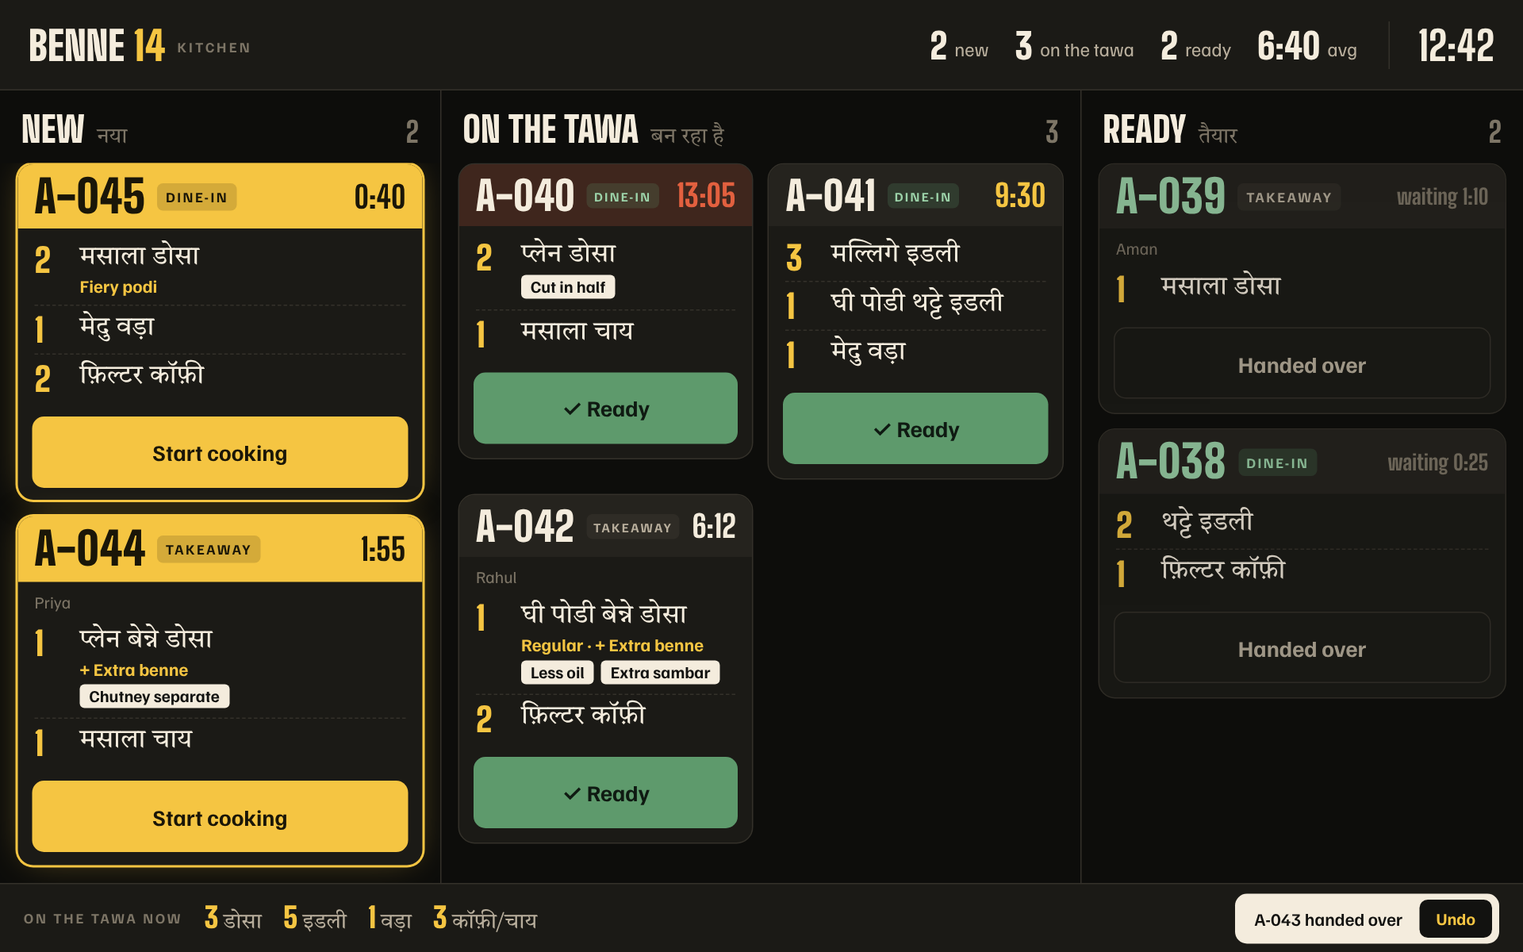
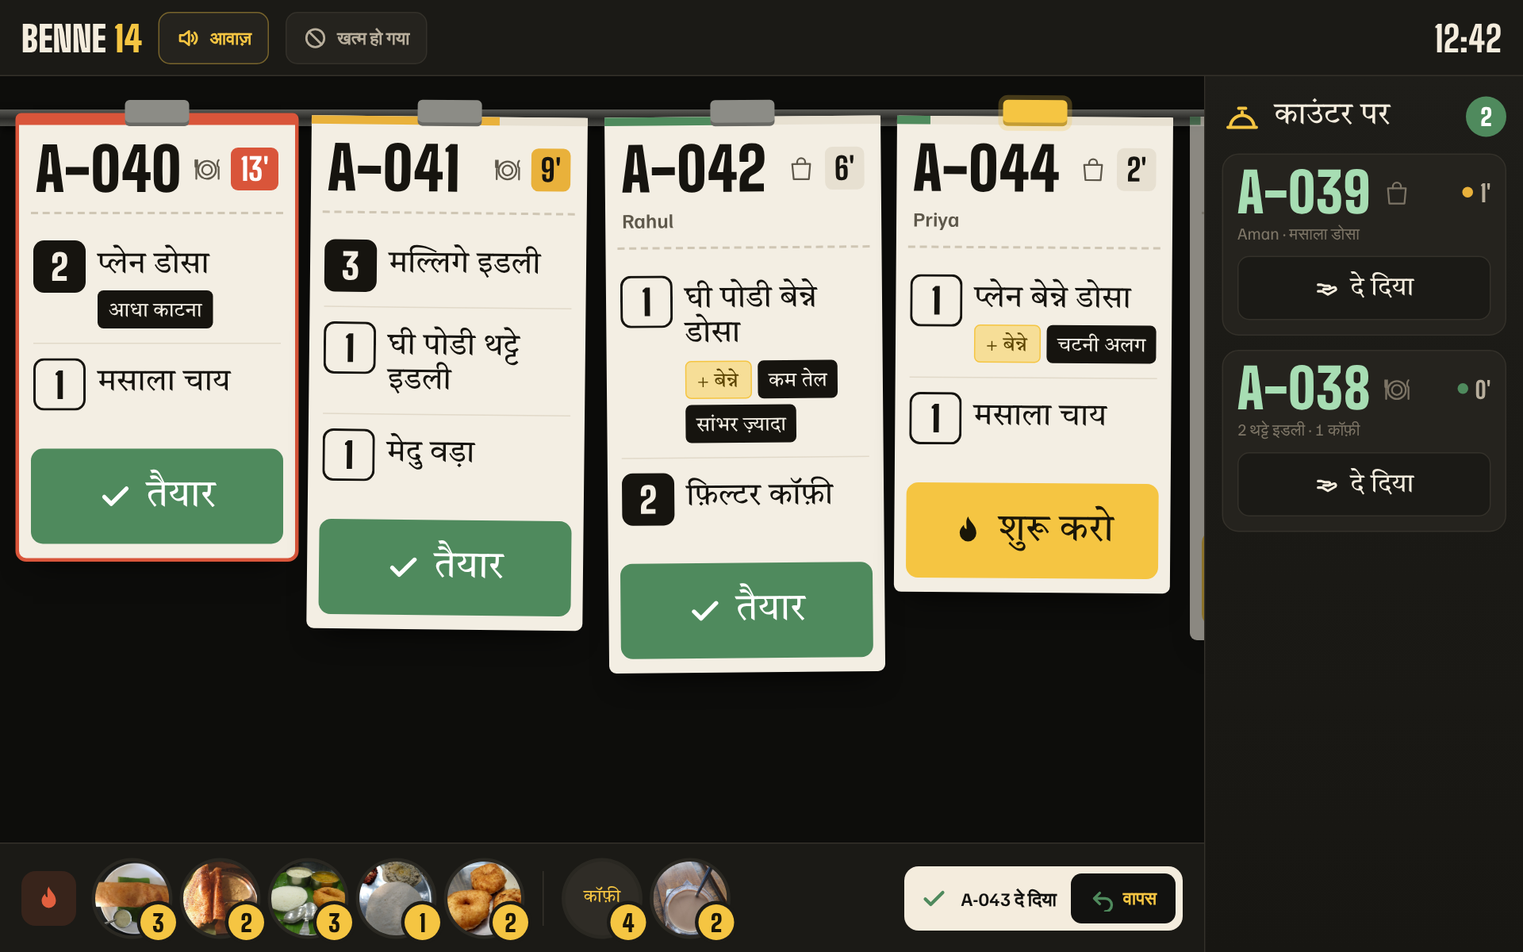
Redesign kitchen display as a ticket rail
Orders are paper chits on a rail with an age bar and timer badge, the
ready orders sit on a counter shelf, and what is on the tawa is a tray
of dish photos with counts instead of a text footer. Buttons and notes
use short Hindi kitchen words.

Claude-Session: https://claude.ai/code/session_01Dbfu4PDT3Rbs4kfZJUwCve

diff --git a/prototype/kitchen.html b/prototype/kitchen.html
@@ -6,156 +6,195 @@
 <title>Benne 14 — Kitchen</title>
 <link rel="stylesheet" href="theme.css">
 <style>
-  .screen{width:1280px;height:800px;display:flex;flex-direction:column;background:#0D0D0B}
-  .top{height:76px;display:flex;align-items:center;gap:26px;padding:0 24px;border-bottom:1px solid var(--line);background:var(--s1)}
-  .top .logo{font-family:var(--display);font-weight:900;font-size:34px;text-transform:uppercase;line-height:1}
-  .top .logo i{font-style:normal;color:var(--benne)}
-  .top .logo small{font-family:var(--body);font-size:12px;font-weight:700;letter-spacing:.18em;color:var(--cream-3);margin-left:10px;vertical-align:middle}
-  .counts{display:flex;gap:22px;margin-left:auto;font-size:16px;color:var(--cream-2)}
-  .counts b{font-family:var(--display);font-weight:900;font-size:30px;color:var(--cream);margin-right:6px;vertical-align:-3px}
-  .clock{font-family:var(--display);font-weight:800;font-size:34px;padding-left:24px;border-left:1px solid var(--line)}
+  :root{--paper:#F3EEE3;--paper-2:#E7E0D1;--ink:#16140F;--ink-2:#5E584B;--ok:#4F8A5D;--warn:#E9B13B;--late:#D9553A}
+  .screen{width:1280px;height:800px;display:grid;grid-template-columns:1fr 268px;grid-template-rows:64px 1fr 92px;background:#0D0D0B}
 
-  .board{flex:1;display:grid;grid-template-columns:1fr 1.45fr 1fr;gap:0;overflow:hidden}
-  .col{border-right:1px solid var(--line);display:flex;flex-direction:column;overflow:hidden}
-  .col:last-child{border-right:0}
-  .ch{display:flex;align-items:baseline;gap:10px;padding:14px 18px 10px}
-  .ch h2{font-family:var(--display);font-weight:900;font-size:30px;text-transform:uppercase;letter-spacing:.01em}
-  .ch .hi{font-size:18px;color:var(--cream-3)}
-  .ch .n{margin-left:auto;font-family:var(--display);font-weight:800;font-size:24px;color:var(--cream-3)}
-  .stack{padding:0 14px 14px;display:flex;flex-direction:column;gap:12px;overflow:hidden}
-  .tawa .stack{display:grid;grid-template-columns:1fr 1fr;align-items:start}
+  /* top bar */
+  .top{grid-column:1/3;display:flex;align-items:center;gap:14px;padding:0 18px;background:var(--s1);border-bottom:1px solid var(--line)}
+  .logo{font-family:var(--display);font-weight:900;font-size:30px;text-transform:uppercase}
+  .logo i{font-style:normal;color:var(--benne)}
+  .ibtn{height:44px;display:flex;align-items:center;gap:8px;padding:0 14px;border-radius:10px;border:1px solid var(--line);background:var(--s2);color:var(--cream-2);font-size:15px;font-weight:600}
+  .ibtn svg{width:20px;height:20px}
+  .ibtn.on{color:var(--benne);border-color:rgba(245,197,66,.4)}
+  .clock{margin-left:auto;font-family:var(--display);font-weight:800;font-size:30px}
 
-  .tk{background:var(--s1);border-radius:14px;overflow:hidden;border:1px solid var(--line)}
-  .tk .h{display:flex;align-items:center;gap:10px;padding:10px 14px;background:var(--s2)}
-  .tk .tok{font-family:var(--display);font-weight:900;font-size:38px;line-height:.9;white-space:nowrap}
-  .tawa .tk .tok{font-size:34px}
-  .tk .type,.tk .t{white-space:nowrap}
-  .tawa .tk .type{font-size:11px;padding:4px 6px}
-  .tk .type{font-size:12px;font-weight:700;letter-spacing:.14em;text-transform:uppercase;padding:4px 7px;border-radius:5px;background:var(--s3);color:var(--cream-2)}
-  .tk .type.dine{background:rgba(94,154,108,.2);color:#9CD3A9}
-  .tk .t{margin-left:auto;font-family:var(--display);font-weight:800;font-size:26px}
-  .tk .who{padding:8px 14px 0;font-size:14px;color:var(--cream-3)}
-  .tk ul{list-style:none;padding:6px 14px 4px}
-  .tk li{display:grid;grid-template-columns:38px 1fr;padding:6px 0;border-bottom:1px dashed var(--line)}
-  .tk li:last-child{border-bottom:0}
-  .tk .q{font-family:var(--display);font-weight:900;font-size:28px;line-height:1;color:var(--benne)}
-  .tk .it{font-family:var(--hi);font-size:22px;line-height:1.15}
-  .tk .en{display:block;font-family:var(--body);font-size:12px;color:var(--cream-3);letter-spacing:.02em}
-  .tk .mod{display:block;font-family:var(--body);font-size:15px;font-weight:700;color:var(--benne);margin-top:3px}
-  .tk .note{display:inline-block;font-family:var(--body);font-size:14px;font-weight:700;background:var(--cream);color:var(--bg);padding:2px 8px;border-radius:4px;margin:4px 6px 0 0}
-  .tk .act{margin:8px 12px 12px;height:60px;border-radius:10px;border:0;width:calc(100% - 24px);font-size:19px;font-weight:700;display:flex;align-items:center;justify-content:center;gap:10px}
+  /* the rail */
+  .railwrap{position:relative;overflow:hidden;padding:0 0 0 16px}
+  .rail{position:absolute;left:0;right:0;top:28px;height:14px;background:linear-gradient(180deg,#5A5A55,#2A2A27 55%,#4A4A45);box-shadow:0 3px 8px rgba(0,0,0,.6)}
+  .chits{position:relative;display:flex;gap:14px;align-items:flex-start;padding-top:34px}
+  .chit{flex:0 0 232px;background:var(--paper);color:var(--ink);border-radius:2px 2px 6px 6px;position:relative;box-shadow:0 14px 24px -12px rgba(0,0,0,.8);transform-origin:top center}
+  .chit:nth-child(2){transform:rotate(.6deg)}.chit:nth-child(3){transform:rotate(-.5deg)}.chit:nth-child(4){transform:rotate(.4deg)}
+  .clip{position:absolute;top:-14px;left:50%;width:54px;height:22px;margin-left:-27px;border-radius:4px;background:#8C8C86;box-shadow:inset 0 -3px 0 rgba(0,0,0,.25)}
+  .age{height:7px;background:var(--paper-2)}
+  .age i{display:block;height:100%}
+  .ch-h{display:flex;align-items:center;gap:8px;padding:16px 14px 10px}
+  .ch-h .tok{font-family:var(--display);font-weight:900;font-size:50px;line-height:.85;white-space:nowrap}
+  .ch-h svg{width:24px;height:24px;margin-left:auto;color:var(--ink-2);flex-shrink:0}
+  .ch-h .min{font-family:var(--display);font-weight:800;font-size:26px;padding:2px 8px;border-radius:6px;background:var(--paper-2)}
+  .who{padding:0 14px 8px;font-size:17px;font-weight:600;color:var(--ink-2);display:flex;align-items:center;gap:6px}
+  .perf{height:0;border-top:2px dashed #CFC6B4;margin:4px 10px}
+  .items{padding:6px 12px 8px}
+  .ln{display:grid;grid-template-columns:44px 1fr;gap:10px;padding:12px 0;align-items:start}
+  .ln + .ln{border-top:1px solid #E1D9C9}
+  .qty{width:44px;height:44px;border-radius:9px;background:var(--ink);color:var(--paper);display:grid;place-items:center;font-family:var(--display);font-weight:900;font-size:30px}
+  .qty.one{background:transparent;color:var(--ink);box-shadow:inset 0 0 0 2px var(--ink)}
+  .nm{font-family:var(--hi);font-size:26px;line-height:1.15;padding-top:6px}
+  .tags{display:flex;flex-wrap:wrap;gap:5px;margin-top:7px;align-items:flex-start}
+  .tg{font-family:var(--hi);font-size:17px;line-height:1;height:32px;display:inline-flex;align-items:center;padding:2px 9px 0;border-radius:5px;white-space:nowrap}
+  .tg.add{background:#F6DE97;color:#5A4300}
+  .tg.hot{background:#F3C3B6;color:#7A2410}
+  .tg.note{background:var(--ink);color:var(--paper)}
+  .go{margin:12px 10px 12px;height:80px;width:calc(100% - 20px);border:0;border-radius:10px;font-family:var(--hi);font-size:32px;display:flex;align-items:center;justify-content:center;gap:12px}
+  .go svg{width:28px;height:28px}
 
-  .new .tk{border-color:var(--benne);box-shadow:0 0 0 1px var(--benne),0 0 30px -10px rgba(245,197,66,.5)}
-  .new .tk .h{background:var(--benne);color:var(--benne-ink)}
-  .new .tk .h .type{background:rgba(26,22,8,.15);color:var(--benne-ink)}
-  .new .act{background:var(--benne);color:var(--benne-ink)}
-  .tawa .act{background:var(--leaf);color:#0F1A12}
-  .ready .act{background:transparent;color:var(--cream-2);border:1.5px solid var(--line)!important}
-  .ready .tk{opacity:.85}
-  .ready .tk .tok{color:#9CD3A9}
+  .chit.new .clip{background:var(--benne);box-shadow:0 0 0 4px rgba(245,197,66,.25),inset 0 -3px 0 rgba(0,0,0,.2)}
+  .chit.new .go{background:var(--benne);color:var(--benne-ink)}
+  .chit.cook .go{background:var(--ok);color:#fff}
+  .chit.warn .ch-h .min{background:var(--warn);color:var(--ink)}
+  .chit.late .ch-h .min{background:var(--late);color:#fff}
+  .chit.late{box-shadow:0 0 0 3px var(--late),0 14px 24px -12px rgba(0,0,0,.8)}
+  .chit.peek{opacity:.55}
 
-  .late .h{background:rgba(226,96,63,.18)!important}
-  .late .t{color:var(--chilli)}
-  .warn .t{color:var(--benne)}
+  /* the pass */
+  .pass{grid-row:2/4;grid-column:2;background:linear-gradient(180deg,#1E1D19,#171612);border-left:1px solid var(--line);display:flex;flex-direction:column;padding:16px 14px}
+  .pass-h{display:flex;align-items:center;gap:10px;margin-bottom:14px}
+  .pass-h svg{width:34px;height:34px;color:var(--benne)}
+  .pass-h b{font-family:var(--hi);font-size:26px;font-weight:400}
+  .pass-h span{margin-left:auto;width:34px;height:34px;border-radius:50%;background:var(--ok);color:#fff;display:grid;place-items:center;font-family:var(--display);font-weight:900;font-size:20px}
+  .plate{background:var(--s2);border:1px solid var(--line);border-radius:14px;padding:12px;margin-bottom:12px}
+  .plate .row1{display:flex;align-items:center;gap:10px}
+  .plate .tok{font-family:var(--display);font-weight:900;font-size:46px;line-height:.85;color:#A7DDB3}
+  .plate svg{width:24px;height:24px;color:var(--cream-3)}
+  .plate .w{margin-left:auto;display:flex;align-items:center;gap:6px;font-family:var(--display);font-weight:800;font-size:20px;color:var(--cream-2)}
+  .plate .w i{width:9px;height:9px;border-radius:50%;background:var(--warn)}
+  .plate .nm2{font-size:14px;color:var(--cream-3);margin:6px 0 10px}
+  .plate button{width:100%;height:54px;border-radius:10px;border:1.5px solid var(--line);background:var(--s1);color:var(--cream);font-family:var(--hi);font-size:22px;display:flex;align-items:center;justify-content:center;gap:8px}
+  .plate button svg{width:22px;height:22px;color:var(--cream)}
 
-  .foot{height:58px;display:flex;align-items:center;gap:18px;padding:0 20px;border-top:1px solid var(--line);background:var(--s1);font-size:16px;color:var(--cream-2)}
-  .foot .lbl{font-size:12px;font-weight:700;letter-spacing:.16em;color:var(--cream-3);text-transform:uppercase}
-  .foot b{font-family:var(--display);font-weight:900;font-size:24px;color:var(--benne);margin-right:4px}
-  .foot .hi{font-size:18px}
-  .toast{margin-left:auto;display:flex;align-items:center;gap:14px;height:42px;padding:0 6px 0 16px;border-radius:10px;background:var(--cream);color:var(--bg);font-weight:600;font-size:15px}
-  .toast button{height:32px;padding:0 14px;border-radius:7px;border:0;background:var(--bg);color:var(--benne);font-weight:700;font-size:14px}
+  /* the tray: what's on the tawa right now */
+  .tray{grid-column:1;grid-row:3;display:flex;align-items:center;gap:12px;padding:0 18px;background:var(--s1);border-top:1px solid var(--line)}
+  .dish{position:relative;width:62px;height:62px;border-radius:50%;overflow:visible}
+  .dish img,.dish .ph{width:62px;height:62px;border-radius:50%;object-fit:cover;display:block;box-shadow:0 0 0 3px #2A2822}
+  .dish .ph{background:var(--s3);display:grid;place-items:center;font-family:var(--hi);color:var(--benne);font-size:15px}
+  .dish b{position:absolute;right:-6px;bottom:-4px;min-width:30px;height:30px;padding:0 6px;border-radius:15px;background:var(--benne);color:var(--benne-ink);display:grid;place-items:center;font-family:var(--display);font-weight:900;font-size:20px;box-shadow:0 0 0 3px var(--s1)}
+  .tray .sep{width:1px;height:46px;background:var(--line);margin:0 6px}
+  .toast{margin-left:auto;display:flex;align-items:center;gap:12px;height:54px;padding:0 6px 0 14px;border-radius:12px;background:var(--cream);color:var(--bg);font-size:16px;font-weight:600}
+  .toast svg{width:22px;height:22px;color:var(--ok)}
+  .toast button{height:42px;padding:0 16px;border-radius:9px;border:0;background:var(--bg);color:var(--benne);font-weight:700;font-size:15px;display:flex;align-items:center;gap:6px}
+  .onfire{width:46px;height:46px;border-radius:12px;background:rgba(226,96,63,.15);display:grid;place-items:center;color:var(--chilli);margin-right:4px}
+  .onfire svg{width:24px;height:24px}
 </style>
 </head>
 <body>
+<svg width="0" height="0" style="position:absolute">
+  <symbol id="dine" viewBox="0 0 64 64"><g fill="none" stroke="currentColor" stroke-width="4" stroke-linecap="round"><circle cx="32" cy="34" r="20"/><circle cx="32" cy="34" r="11"/><path d="M6 12v14m0 0c0 3 4 3 4 0V12m-2 14v28M58 12c-4 4-4 14 0 16v26"/></g></symbol>
+  <symbol id="bag" viewBox="0 0 64 64"><g fill="none" stroke="currentColor" stroke-width="4" stroke-linejoin="round" stroke-linecap="round"><path d="M12 22h40l-3 34H15z"/><path d="M23 22v-4a9 9 0 0 1 18 0v4"/></g></symbol>
+  <symbol id="flame" viewBox="0 0 24 24"><path fill="currentColor" d="M12 2c1 4 6 6 6 12a6 6 0 0 1-12 0c0-3 2-5 3-6 0 2 1 3 2 3 0-4-1-6 1-9z"/></symbol>
+  <symbol id="check" viewBox="0 0 24 24"><path fill="none" stroke="currentColor" stroke-width="3" stroke-linecap="round" stroke-linejoin="round" d="M4 12.5l5 5L20 6.5"/></symbol>
+  <symbol id="hand" viewBox="0 0 24 24"><g fill="none" stroke="currentColor" stroke-width="2.2" stroke-linecap="round" stroke-linejoin="round"><path d="M3 15h4l5 3 7-4a1.6 1.6 0 0 0-1.6-2.6L13 13"/><path d="M8 13h4.5a1.5 1.5 0 0 0 0-3H9L6 9H3"/></g></symbol>
+  <symbol id="bell" viewBox="0 0 34 34"><g fill="none" stroke="currentColor" stroke-width="2.6" stroke-linecap="round"><path d="M5 26h24M7 26a10 10 0 0 1 20 0M17 13v3M14 10h6"/></g></symbol>
+  <symbol id="undo" viewBox="0 0 24 24"><path fill="none" stroke="currentColor" stroke-width="2.4" stroke-linecap="round" stroke-linejoin="round" d="M9 7L4 12l5 5M4 12h10a6 6 0 0 1 0 12"/></symbol>
+</svg>
+
 <div class="screen">
   <div class="top">
-    <div class="logo">Benne <i>14</i><small>KITCHEN</small></div>
-    <div class="counts"><span><b>2</b>new</span><span><b>3</b>on the tawa</span><span><b>2</b>ready</span><span><b>6:40</b>avg</span></div>
+    <div class="logo">Benne <i>14</i></div>
+    <button class="ibtn on"><svg viewBox="0 0 24 24" fill="none" stroke="currentColor" stroke-width="2.2" stroke-linecap="round" stroke-linejoin="round"><path d="M4 9v6h4l5 4V5L8 9z"/><path d="M16 9a4 4 0 0 1 0 6M18.5 6.5a7.5 7.5 0 0 1 0 11"/></svg>आवाज़</button>
+    <button class="ibtn"><svg viewBox="0 0 24 24" fill="none" stroke="currentColor" stroke-width="2.2" stroke-linecap="round"><circle cx="12" cy="12" r="9"/><path d="M5.6 5.6l12.8 12.8"/></svg>खत्म हो गया</button>
     <div class="clock">12:42</div>
   </div>
 
-  <div class="board">
-    <!-- NEW -->
-    <div class="col new">
-      <div class="ch"><h2>New</h2><span class="hi">नया</span><span class="n">2</span></div>
-      <div class="stack">
-        <div class="tk">
-          <div class="h"><span class="tok">A-045</span><span class="type">Dine-in</span><span class="t">0:40</span></div>
-          <ul>
-            <li><span class="q">2</span><span class="it">मसाला डोसा<span class="mod">Fiery podi</span></span></li>
-            <li><span class="q">1</span><span class="it">मेदु वड़ा</span></li>
-            <li><span class="q">2</span><span class="it">फ़िल्टर कॉफ़ी</span></li>
-          </ul>
-          <button class="act">Start cooking</button>
-        </div>
-        <div class="tk">
-          <div class="h"><span class="tok">A-044</span><span class="type">Takeaway</span><span class="t">1:55</span></div>
-          <div class="who">Priya</div>
-          <ul>
-            <li><span class="q">1</span><span class="it">प्लेन बेन्ने डोसा<span class="mod">+ Extra benne</span><span class="note">Chutney separate</span></span></li>
-            <li><span class="q">1</span><span class="it">मसाला चाय</span></li>
-          </ul>
-          <button class="act">Start cooking</button>
-        </div>
-      </div>
-    </div>
+  <div class="railwrap">
+    <div class="rail"></div>
+    <div class="chits">
 
-    <!-- ON THE TAWA -->
-    <div class="col tawa">
-      <div class="ch"><h2>On the tawa</h2><span class="hi">बन रहा है</span><span class="n">3</span></div>
-      <div class="stack">
-        <div class="tk late">
-          <div class="h"><span class="tok">A-040</span><span class="type dine">Dine-in</span><span class="t">13:05</span></div>
-          <ul>
-            <li><span class="q">2</span><span class="it">प्लेन डोसा<br><span class="note">Cut in half</span></span></li>
-            <li><span class="q">1</span><span class="it">मसाला चाय</span></li>
-          </ul>
-          <button class="act">✓ Ready</button>
+      <div class="chit cook late">
+        <span class="clip"></span><div class="age"><i style="width:100%;background:var(--late)"></i></div>
+        <div class="ch-h"><span class="tok">A-040</span><svg><use href="#dine"/></svg><span class="min">13'</span></div>
+        <div class="perf"></div>
+        <div class="items">
+          <div class="ln"><span class="qty">2</span><div><div class="nm">प्लेन डोसा</div><div class="tags"><span class="tg note">आधा काटना</span></div></div></div>
+          <div class="ln"><span class="qty one">1</span><div class="nm">मसाला चाय</div></div>
         </div>
-        <div class="tk warn">
-          <div class="h"><span class="tok">A-041</span><span class="type dine">Dine-in</span><span class="t">9:30</span></div>
-          <ul>
-            <li><span class="q">3</span><span class="it">मल्लिगे इडली</span></li>
-            <li><span class="q">1</span><span class="it">घी पोडी थट्टे इडली</span></li>
-            <li><span class="q">1</span><span class="it">मेदु वड़ा</span></li>
-          </ul>
-          <button class="act">✓ Ready</button>
-        </div>
-        <div class="tk">
-          <div class="h"><span class="tok">A-042</span><span class="type">Takeaway</span><span class="t">6:12</span></div>
-          <div class="who">Rahul</div>
-          <ul>
-            <li><span class="q">1</span><span class="it">घी पोडी बेन्ने डोसा<span class="mod">Regular · + Extra benne</span><span class="note">Less oil</span><span class="note">Extra sambar</span></span></li>
-            <li><span class="q">2</span><span class="it">फ़िल्टर कॉफ़ी</span></li>
-          </ul>
-          <button class="act">✓ Ready</button>
-        </div>
+        <button class="go"><svg><use href="#check"/></svg>तैयार</button>
       </div>
-    </div>
 
-    <!-- READY -->
-    <div class="col ready">
-      <div class="ch"><h2>Ready</h2><span class="hi">तैयार</span><span class="n">2</span></div>
-      <div class="stack">
-        <div class="tk">
-          <div class="h"><span class="tok">A-039</span><span class="type">Takeaway</span><span class="t" style="font-size:18px;color:var(--cream-3)">waiting 1:10</span></div>
-          <div class="who">Aman</div>
-          <ul><li><span class="q">1</span><span class="it">मसाला डोसा</span></li></ul>
-          <button class="act">Handed over</button>
+      <div class="chit cook warn">
+        <span class="clip"></span><div class="age"><i style="width:68%;background:var(--warn)"></i></div>
+        <div class="ch-h"><span class="tok">A-041</span><svg><use href="#dine"/></svg><span class="min">9'</span></div>
+        <div class="perf"></div>
+        <div class="items">
+          <div class="ln"><span class="qty">3</span><div class="nm">मल्लिगे इडली</div></div>
+          <div class="ln"><span class="qty one">1</span><div class="nm">घी पोडी थट्टे इडली</div></div>
+          <div class="ln"><span class="qty one">1</span><div class="nm">मेदु वड़ा</div></div>
         </div>
-        <div class="tk">
-          <div class="h"><span class="tok">A-038</span><span class="type dine">Dine-in</span><span class="t" style="font-size:18px;color:var(--cream-3)">waiting 0:25</span></div>
-          <ul><li><span class="q">2</span><span class="it">थट्टे इडली</span></li><li><span class="q">1</span><span class="it">फ़िल्टर कॉफ़ी</span></li></ul>
-          <button class="act">Handed over</button>
-        </div>
+        <button class="go"><svg><use href="#check"/></svg>तैयार</button>
       </div>
+
+      <div class="chit cook">
+        <span class="clip"></span><div class="age"><i style="width:42%;background:var(--ok)"></i></div>
+        <div class="ch-h"><span class="tok">A-042</span><svg><use href="#bag"/></svg><span class="min">6'</span></div>
+        <div class="who">Rahul</div>
+        <div class="perf"></div>
+        <div class="items">
+          <div class="ln"><span class="qty one">1</span><div><div class="nm">घी पोडी बेन्ने डोसा</div><div class="tags"><span class="tg add">+ बेन्ने</span><span class="tg note">कम तेल</span><span class="tg note">सांभर ज़्यादा</span></div></div></div>
+          <div class="ln"><span class="qty">2</span><div class="nm">फ़िल्टर कॉफ़ी</div></div>
+        </div>
+        <button class="go"><svg><use href="#check"/></svg>तैयार</button>
+      </div>
+
+      <div class="chit new">
+        <span class="clip"></span><div class="age"><i style="width:12%;background:var(--ok)"></i></div>
+        <div class="ch-h"><span class="tok">A-044</span><svg><use href="#bag"/></svg><span class="min">2'</span></div>
+        <div class="who">Priya</div>
+        <div class="perf"></div>
+        <div class="items">
+          <div class="ln"><span class="qty one">1</span><div><div class="nm">प्लेन बेन्ने डोसा</div><div class="tags"><span class="tg add">+ बेन्ने</span><span class="tg note">चटनी अलग</span></div></div></div>
+          <div class="ln"><span class="qty one">1</span><div class="nm">मसाला चाय</div></div>
+        </div>
+        <button class="go"><svg><use href="#flame"/></svg>शुरू करो</button>
+      </div>
+
+      <div class="chit new peek">
+        <span class="clip"></span><div class="age"><i style="width:4%;background:var(--ok)"></i></div>
+        <div class="ch-h"><span class="tok">A-045</span><svg><use href="#dine"/></svg><span class="min">0'</span></div>
+        <div class="perf"></div>
+        <div class="items">
+          <div class="ln"><span class="qty">2</span><div><div class="nm">मसाला डोसा</div><div class="tags"><span class="tg hot">तीखा</span></div></div></div>
+          <div class="ln"><span class="qty one">1</span><div class="nm">मेदु वड़ा</div></div>
+          <div class="ln"><span class="qty">2</span><div class="nm">फ़िल्टर कॉफ़ी</div></div>
+        </div>
+        <button class="go"><svg><use href="#flame"/></svg>शुरू करो</button>
+      </div>
+
     </div>
   </div>
 
-  <div class="foot">
-    <span class="lbl">On the tawa now</span>
-    <span><b>3</b><span class="hi">डोसा</span></span><span><b>5</b><span class="hi">इडली</span></span><span><b>1</b><span class="hi">वड़ा</span></span><span><b>3</b><span class="hi">कॉफ़ी/चाय</span></span>
-    <div class="toast">A-043 handed over<button>Undo</button></div>
+  <div class="pass">
+    <div class="pass-h"><svg><use href="#bell"/></svg><b>काउंटर पर</b><span>2</span></div>
+    <div class="plate">
+      <div class="row1"><span class="tok">A-039</span><svg><use href="#bag"/></svg><span class="w"><i></i>1'</span></div>
+      <div class="nm2">Aman · मसाला डोसा</div>
+      <button><svg><use href="#hand"/></svg>दे दिया</button>
+    </div>
+    <div class="plate">
+      <div class="row1"><span class="tok">A-038</span><svg><use href="#dine"/></svg><span class="w"><i style="background:var(--ok)"></i>0'</span></div>
+      <div class="nm2">2 थट्टे इडली · 1 कॉफ़ी</div>
+      <button><svg><use href="#hand"/></svg>दे दिया</button>
+    </div>
+  </div>
+
+  <div class="tray">
+    <div class="onfire"><svg><use href="#flame"/></svg></div>
+    <div class="dish"><img src="assets/food/plain-dosa.jpg" alt=""><b>3</b></div>
+    <div class="dish"><img src="assets/food/plain-benne-dosa.jpg" alt=""><b>2</b></div>
+    <div class="dish"><img src="assets/food/mallige-idli.jpg" alt=""><b>3</b></div>
+    <div class="dish"><img src="assets/food/thatte-idli.jpg" alt=""><b>1</b></div>
+    <div class="dish"><img src="assets/food/medu-vada.jpg" alt=""><b>2</b></div>
+    <span class="sep"></span>
+    <div class="dish"><div class="ph">कॉफ़ी</div><b>4</b></div>
+    <div class="dish"><img src="assets/food/masala-tea.jpg" alt=""><b>2</b></div>
+    <div class="toast"><svg><use href="#check"/></svg>A-043 दे दिया<button><svg width="16" height="16"><use href="#undo"/></svg>वापस</button></div>
   </div>
 </div>
 </body>
